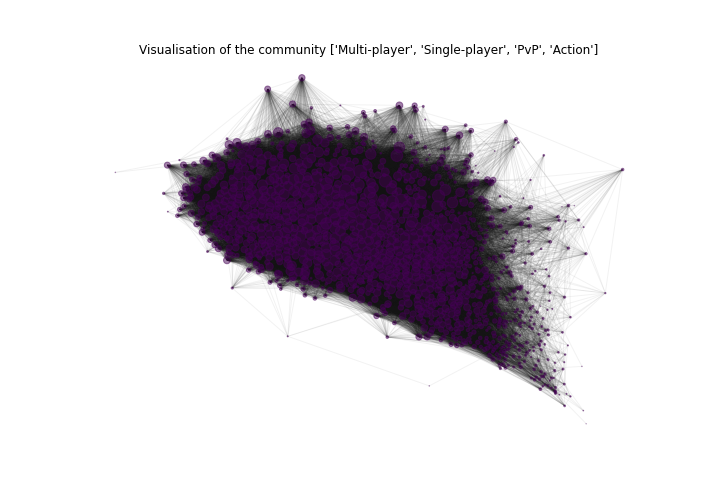
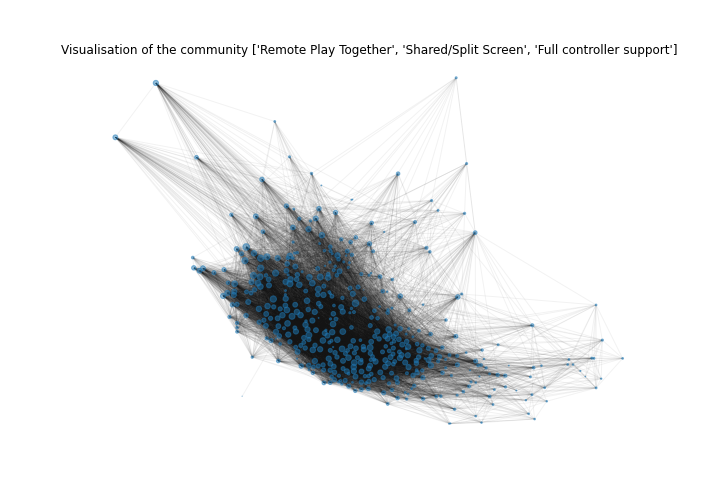
modified content and added comments on communities

diff --git a/src/pages/page1.tsx b/src/pages/page1.tsx
@@ -38,38 +38,38 @@ export default function Page1(props: TProps) {
       <p>The buttons below provides more informations on the communities we spotted :</p>
 
       <DialogCommunity 
-        text="some text, and also more text" 
-        communityName={`Community 1: "Multiplayer", "Single-Player", "PvP", "Action"`}  
+        text={`This community has 448 nodes. So it is the second smallest one. The most common tags are "Remote Play Together" (405 games have this tag), "Shared/Split Screen" (311 have) and "Full controllor support" (296). So, more or less all the games of this community are online games in which you can share the screen. The most connected game is "Just Shapes & Beats".`}
+        communityName={`Community 1: "Remote Play Together", "Shared/Split Screen", "Full controller support"`}  
         imageSet={0}
       />
 
       <DialogCommunity 
-        text="some text, and also more text" 
-        communityName={`Community 2: "Single-Player", "Full controller support", "Action", "Adventure"`} 
+        text={`This community has 1069 nodes and it is the biggest one. The most common tags are "Action" (669 games have this tag), "Online PvP" (628 have) and "PvP" (619). So, in this community there are the games action and Player Versus Player, both online and offline. These are the most popular games at the moment, as "Counter Strike". The most connected game is "Necromunda: Underhive Wars".`}
+        communityName={`Community 2: "Action", "Online PvP", "PvP"`} 
         imageSet={1}
       />
 
       <DialogCommunity 
-        text="some text, and also more text" 
-        communityName={`Community 3: "Single-Player", "Strategy", "Indie", "Simulation"`} 
+        text={`In this community there are 740 nodes. The most common tags are "Indie" (579 games have this tag), "Strategy" (429 have) and "Casual" (370). The games in this community are mainly strategy games in an old and simple style. The most connected game is "Train Valley".`}
+        communityName={`Community 3: "Strategy", "Indie", "Casual"`} 
         imageSet={2}
       />
 
       <DialogCommunity 
-        text="some text, and also more text" 
-        communityName={`Community 4: "Single-Player", "Action", "Multi-player", "Partial Controller Support"`} 
+        text={`In this community there are 697 nodes. The most common tags are "Action" (403 games have this tag), "Adventure" (387 have) and "Full controller support" (515). We can understand that the games in this community are games that can be played even without a keyboard (so with controllers) and are adventurous. The most connected game is "Hellblade: Senua's Sacrifice".`}
+        communityName={`Community 4: "Full controller support", "Action", "Adventure"`} 
         imageSet={3}
       />
 
       <DialogCommunity 
-        text="some text, and also more text" 
-        communityName={`Community 5: "Single-Player", "Indie", "Adventure", "Action"`} 
+        text={`In this community there are 673 nodes. The most common tags are "Indie" (582 games have this tag), "Adventure" (416 have) and "Action" (407). The games in this community are similar to the games of the previous one, with the difference that these games are created by individuals or smaller development teams. The most connected game is "Inner silence".`}
+        communityName={`Community 5: "Indie", "Adventure", "Action"`} 
         imageSet={4}
       />
 
       <DialogCommunity 
-        text="some text, and also more text" 
-        communityName={`Community 6: "Animation & Modeling", "Design & Illustration", "Education", "Software training"`} 
+        text={`In this community there are 147 nodes. This is the smallest community and the tags are very different from the other communities. The most common tags are "Strategy" (96 games have this tag), "RPG" (47 have) and "Simulation" (23). So, the games of this community are mainly strategic role-play/simulation games. The most connected game is "Supreme Commander: Forged Alliance".`}
+        communityName={`Community 6: "Strategy", "RPG", "Simulation"`} 
         imageSet={5}
       />
       

diff --git a/src/pages/page3.tsx b/src/pages/page3.tsx
@@ -19,7 +19,7 @@ export default function Page3(props: TProps) {
       <p>In order to create the network, we decided to have games as nodes. Then, we had to decide how to create links among the games. As our goal was to find similarities among games, it was intuitive to think ways to generate edges based on the similarities, found on the tags (i.e. genres and categories). In particular, many different choice have been considered, for example to create an edge between two games if the number of equal tags between the two games were above a certain threshold. This led to the choice of a proper arbitrary threshold without ways to decide which was the best. For this reason, at the end, another approch has been used. An edge is create between two games if the similitude between them is greater than the opposition. Expressed in other words, in the number of tags in common between the two games is greater than the number of tags not in common. The process of the network creation should have been easy but, as always, the practice was different from the theory. In fact, all the attemps to build the network failed because of the big dimensions of the network itself. In particular, working on Google Colab, after 4000 edges the system crashed, because of the too many links. As the purpose of the project wasn't working on big data, it's been decided to reduce the dimension of the network in order to be able to continue the project. For this reason, it's been decided to take the 4000 most played games in this period. It is a good choice also because after this number, there are very unplayed games with few or no comments that wouldn't have been useful in the sentiment analysis.</p>
       
       <h2>The website</h2>
-      <p>The main objective of this website is to show the results of our network analysis, in an interactive and easy to understand way. That is why this website uses Gatsby, a React App Framework, as an engine, providing to the visitor of this website a fully responsive experience, without any lag (Gatsby using a pre-rendering technique to calculate and store queries). The website contains mostly texts, pictures and interactive components, as the Home page interactive graph, made using Vis.JS and a wordcloud found in the Sentiment analysis page, made using D3.JS.</p>
+      <p>The main objective of this website is to show the results of our network analysis, in an interactive and easy to understand way. That is why this website uses Gatsby, a React App Framework, as an engine, providing to the visitor of this website a fully responsive experience, without any lag (Gatsby using a pre-rendering technique to calculate and store queries). The website contains mostly texts, pictures and interactive components, as the Home page interactive graph, made using Vis.JS and a wordcloud found in the Sentiment analysis page, made using D3.JS. The website is hosted on a fully automated Netlify Machine, updated whenever the production repository is updated.</p>
       <p>All of this website code is available in <a href="https://github.com/Baitoven/Social-Graph-Project">this GitHub repository</a>, and all of the Python code used for data processing is available from the download link below :</p>
       
       <p>** download link goes here **</p>

diff --git a/src/components/dialog-community.tsx b/src/components/dialog-community.tsx
@@ -13,12 +13,12 @@ import community_graph_2 from "../images/2_community_graph.png"
 import community_graph_3 from "../images/3_community_graph.png"
 import community_graph_4 from "../images/4_community_graph.png"
 import community_graph_5 from "../images/5_community_graph.png"
-import community_degree_0 from "../images/0_community_degree_lin.png"
-import community_degree_1 from "../images/1_community_degree_lin.png"
-import community_degree_2 from "../images/2_community_degree_lin.png"
-import community_degree_3 from "../images/3_community_degree_lin.png"
-import community_degree_4 from "../images/4_community_degree_lin.png"
-import community_degree_5 from "../images/5_community_degree_lin.png"
+import community_degree_0 from "../images/0_community_degree.png"
+import community_degree_1 from "../images/1_community_degree.png"
+import community_degree_2 from "../images/2_community_degree.png"
+import community_degree_3 from "../images/3_community_degree.png"
+import community_degree_4 from "../images/4_community_degree.png"
+import community_degree_5 from "../images/5_community_degree.png"
 
 export interface IProps {
     communityName: string
@@ -140,7 +140,12 @@ const DialogTitleText = styled.h2`
 const ImageContainer = styled.div`
   justify-content: center;
   display: flex;
-  align-items: flex-start;
+  flex-direction: column;
+  align-items: center;
+
+  & img {
+    width: fit-content;
+  }
 `
 
 const CustomDialog = styled(Dialog)`

diff --git a/src/pages/page2.tsx b/src/pages/page2.tsx
@@ -2,8 +2,12 @@ import React, { useEffect } from "react"
 import { Link, graphql } from "gatsby"
 import * as d3 from "d3"
 import * as d3c from "d3-cloud"
+import styled from "styled-components"
 
 import Layout from "../components/layout"
+import comment_communities from "../images/comments_communities.png"
+import histo_words_not_sentiment from "../images/histWordsNotInSentiment.png"
+import histo_sentiment from "../images/hist_sentiment_games.png"
 
 type TProps = {}
 
@@ -60,10 +64,24 @@ export default function Page2(props: TProps) {
   return (
     <Layout>
       <h1>Sentiment analysis</h1>
-      <h2>Wordclouds</h2>
-      <h2>Analysis</h2>
-      <p>put some more text here</p>
       <div id="my_dataviz"></div>
+
+      <h2>Wordclouds</h2>
+      <p>** some text **</p>
+      <ImageContainer>
+        <img src={comment_communities} />
+      </ImageContainer>
+      <p>** some more text here **</p>
+
+      <h2>Analysis</h2>
+      <ImageContainer>
+        <img src={histo_words_not_sentiment} />
+      </ImageContainer>
+
+      <ImageContainer>
+        <img src={histo_sentiment} />
+      </ImageContainer>
+      <p>put some more text here</p>
 
       
 
@@ -71,3 +89,12 @@ export default function Page2(props: TProps) {
     </Layout>
   )
 }
+
+const ImageContainer = styled.div`
+  display: flex;
+
+  & img {
+    width: 100%;
+    height: auto;
+  }
+`
